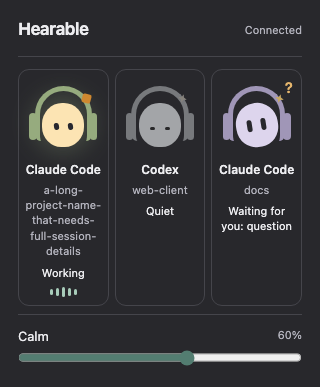
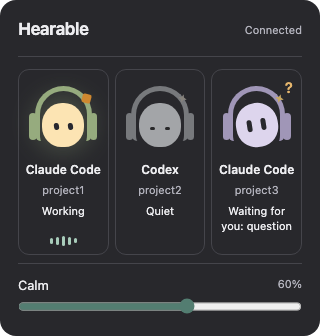
Refresh the mixed portrait demo captures

diff --git a/apps/mac/test/portraits.spec.ts b/apps/mac/test/portraits.spec.ts
@@ -143,14 +143,24 @@ test("distinguishes working portraits while preserving identity through state ch
         .evaluate((element) => getComputedStyle(element).transitionDuration),
     ).toBe("0s");
     // Compare the three meanings together at the real popover width, with audio absent.
-    sessions = [claude, codex, otherClaude];
+    sessions = [
+      { ...claude, name: "project1" },
+      { ...codex, name: "project2" },
+      { ...otherClaude, name: "project3" },
+    ];
     signals = [
       signal(claude, 0),
       signal(codex, 1, { lifecycle: "quiet" }),
       signal(otherClaude, 2, { lifecycle: "waiting", waitingReason: "question" }),
     ];
     snapshot();
-    await expect(first).toHaveAttribute("data-active", "true");
+    await expect(portraits.locator(".popover-session")).toHaveText([
+      "project1",
+      "project2",
+      "project3",
+    ]);
+    await expect(portraits.first()).toHaveAttribute("data-active", "true");
+    const working = portraits.first().locator(".portrait-mascot");
     const quiet = page.locator('[data-expression="quiet"] .portrait-mascot');
     const waiting = page.locator('[data-expression="waiting"] .portrait-mascot');
     await page.setViewportSize({ width: 320, height: 700 });
@@ -158,19 +168,22 @@ test("distinguishes working portraits while preserving identity through state ch
     await mkdir(screenshots, { recursive: true });
     for (const colorScheme of ["light", "dark"] as const) {
       await page.emulateMedia({ colorScheme, reducedMotion: "no-preference" });
-      await expect(mascot).toHaveCSS("animation-name", "portrait-working");
-      await expect(mascot).toHaveCSS("filter", "saturate(1.5)");
+      await expect(working).toHaveCSS("animation-name", "portrait-working");
+      await expect(working).toHaveCSS("filter", "saturate(1.5)");
       await expect(quiet).toHaveCSS("filter", "grayscale(0.85)");
       await expect(waiting).toHaveCSS("filter", "none");
       await expect(waiting).toHaveCSS("animation-name", "none");
       await page.emulateMedia({ reducedMotion: "reduce" });
-      await expect(mascot).toHaveCSS("animation-name", "none");
-      await expect(mascot).toHaveCSS("transition-duration", "0s");
+      await expect(working).toHaveCSS("animation-name", "none");
+      await expect(working).toHaveCSS("transition-duration", "0s");
       expect(
-        await mascot.evaluate((element) => getComputedStyle(element, "::before").opacity),
+        await working.evaluate((element) => getComputedStyle(element, "::before").opacity),
       ).toBe("0.28");
       await page.locator(".popover").screenshot({
         path: join(screenshots, `active-portraits-mixed-${colorScheme}.png`),
+        // The native window rounds its corners outside the browser renderer.
+        omitBackground: true,
+        style: ".popover { border-radius: 16px; overflow: hidden; }",
       });
     }
     await page.emulateMedia({ reducedMotion: "no-preference" });
